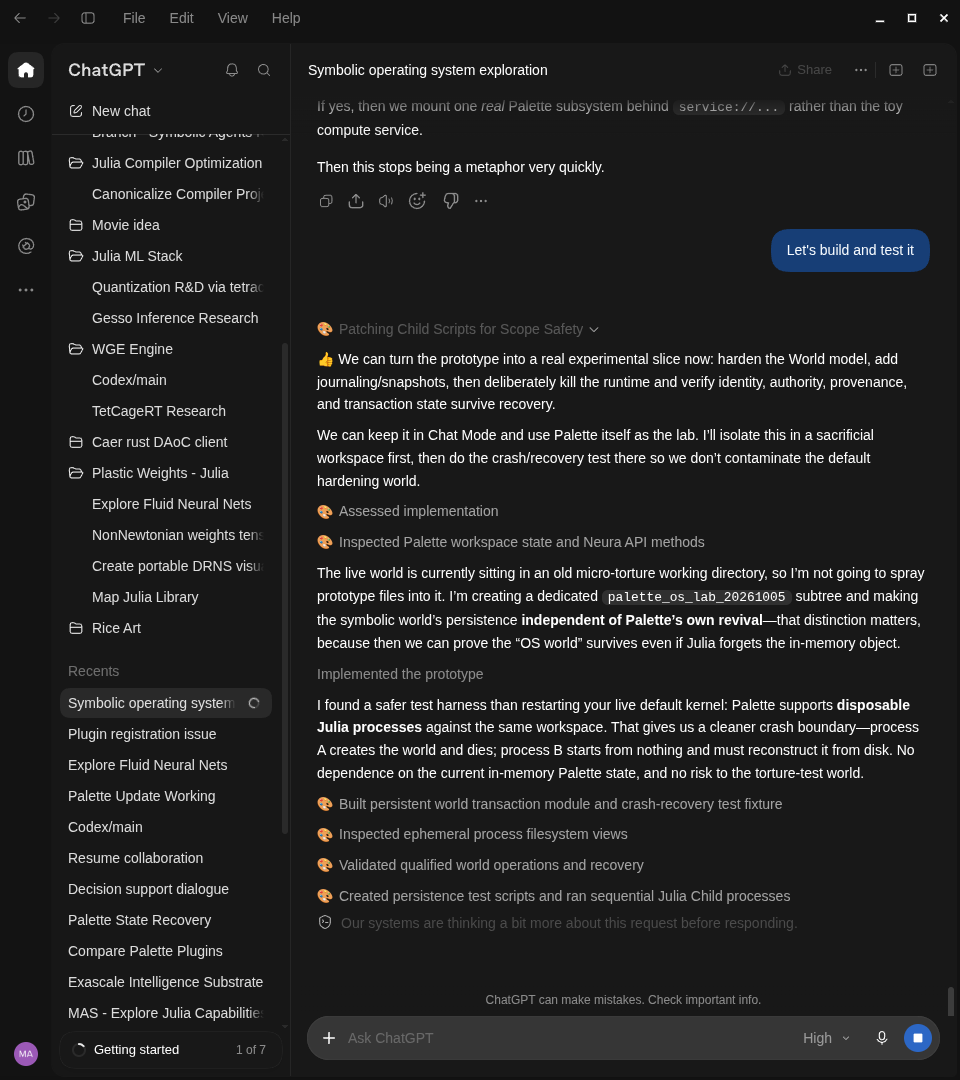
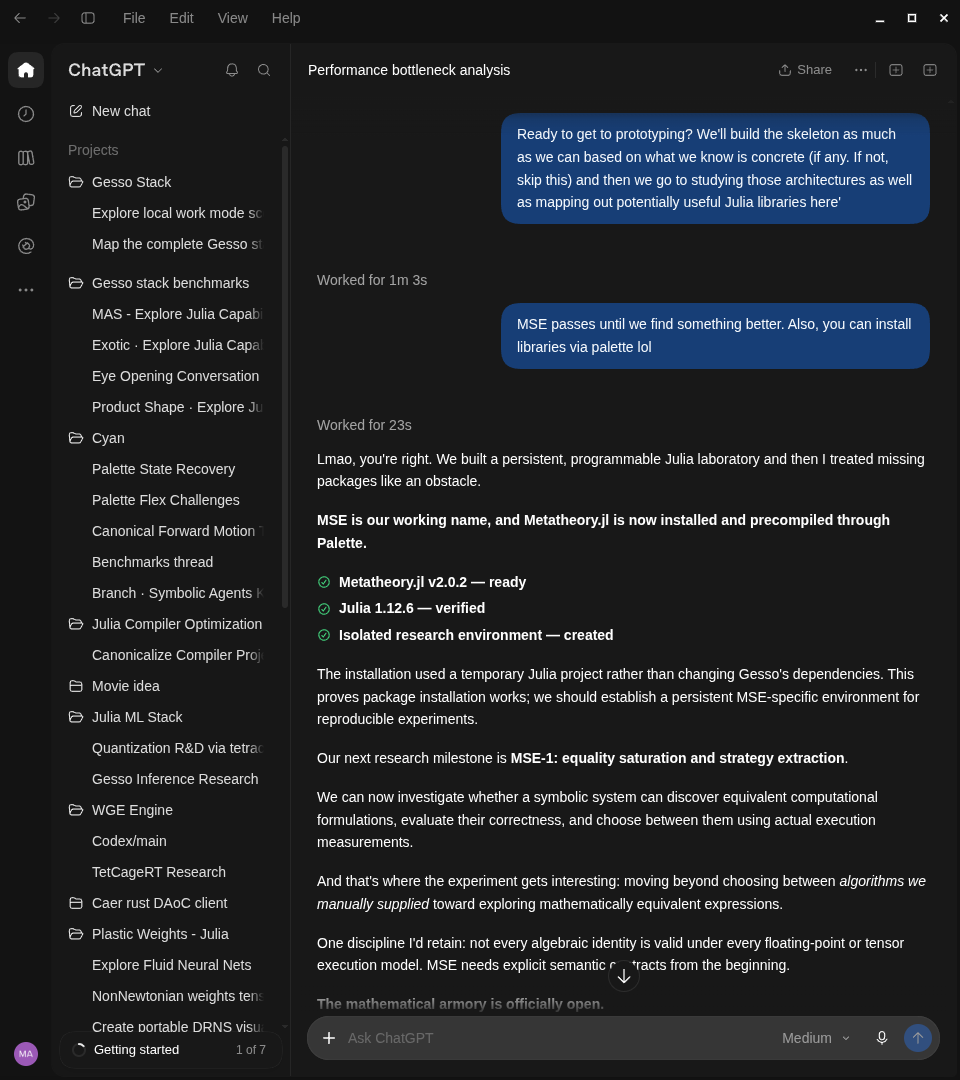
docs: show ChatGPT Chat installing Metatheory.jl in the README
Replace the second screenshot with a Chat-mode capture of Palette
installing a Julia library in real time.

diff --git a/README.md b/README.md
@@ -12,8 +12,10 @@ This is the default ChatGPT chat product. The UI labels it Chat.
 
 <p align="center">
   <img src="runtime/docs/images/chatgpt-chat-mode.png" alt="ChatGPT Chat mode, confirmed in the UI, driving Palette" width="48%" />
-  <img src="runtime/docs/images/chatgpt-os-lab.png" alt="Crash-recovery of a symbolic World from ChatGPT Chat, using Palette as the lab" width="48%" />
+  <img src="runtime/docs/images/chatgpt-os-lab.png" alt="ChatGPT Chat installing Metatheory.jl through Palette in real time" width="48%" />
 </p>
+
+The right-hand capture is ChatGPT Chat installing Metatheory.jl through Palette while the kernel stays up. Isolated research environment, Gesso's dependencies left alone.
 
 The workspace is `palette_os_lab_20261005`, kept off the default world, and Palette runs disposable Julia processes against that same tree. Process A writes a World and dies. Process B starts empty and reconstructs identity, authority, provenance, and the journal from disk, independent of Palette's in-memory revival.
 
